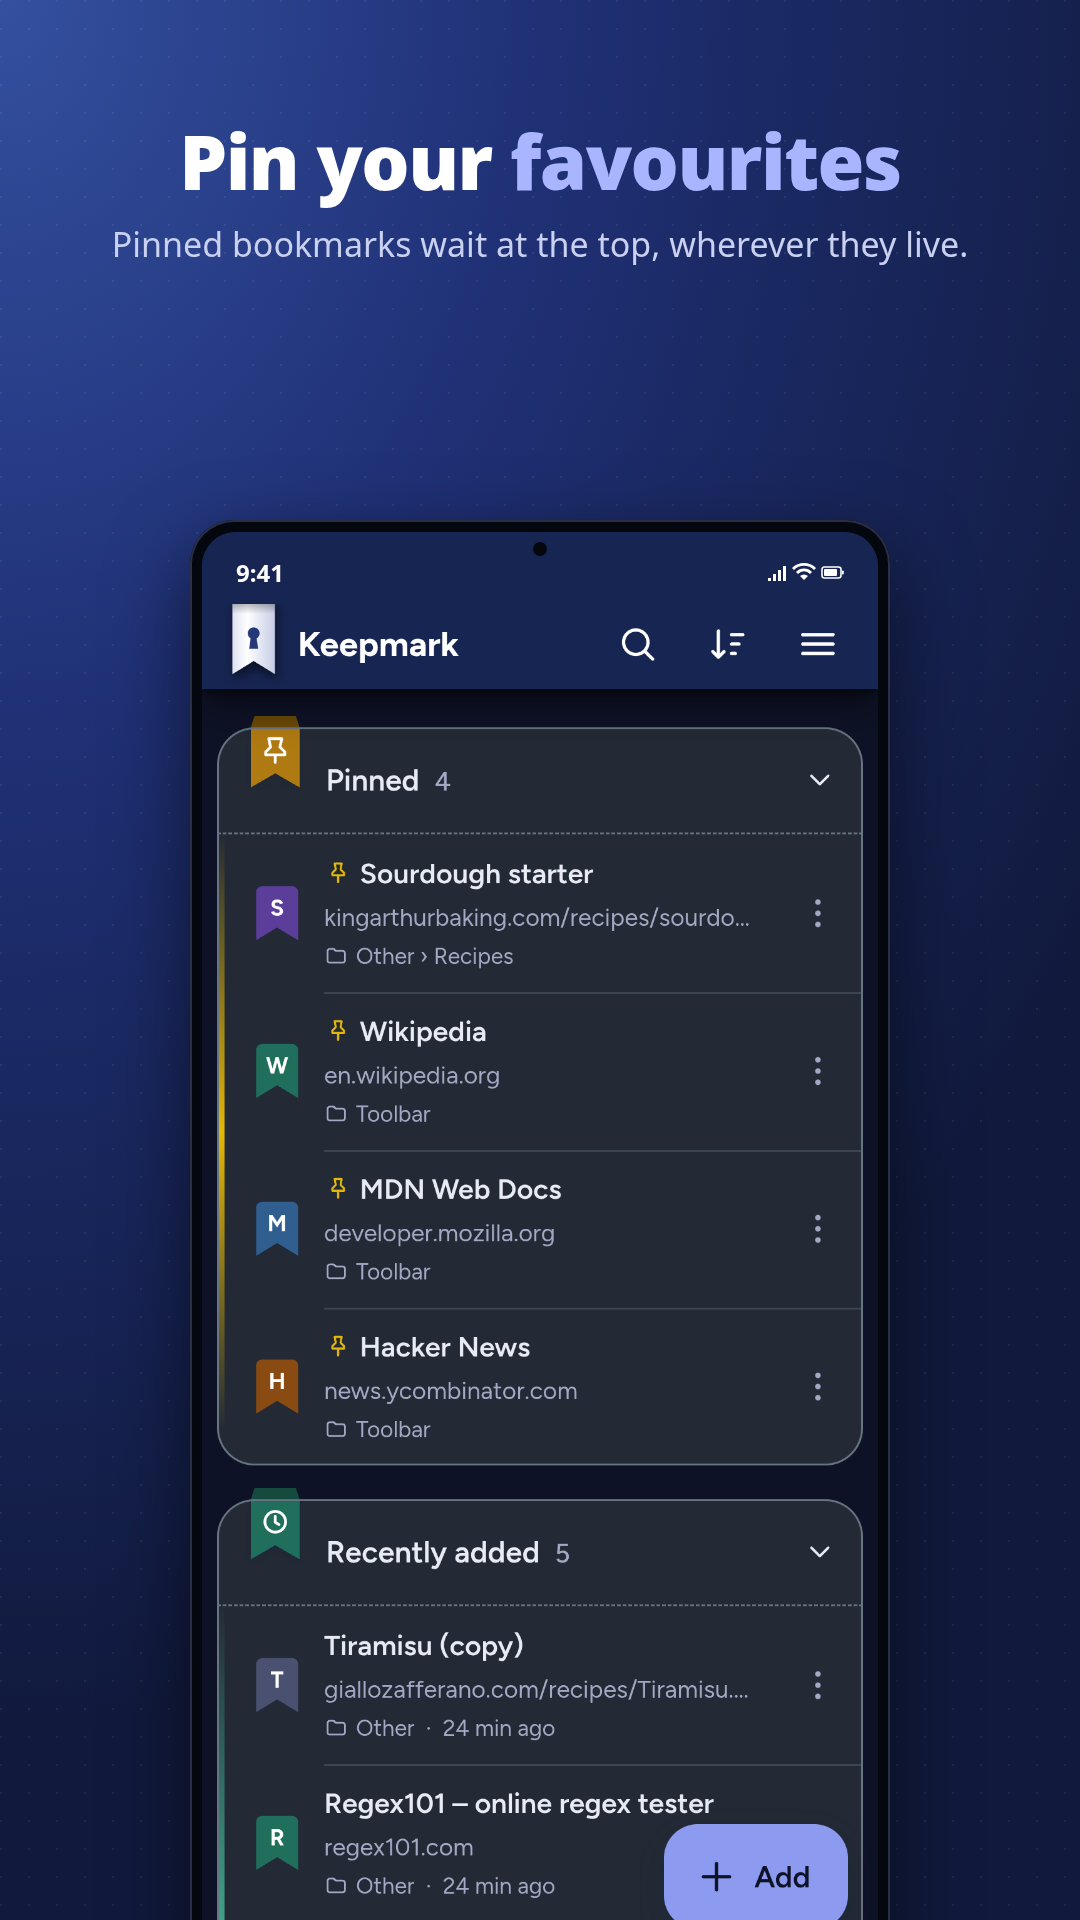
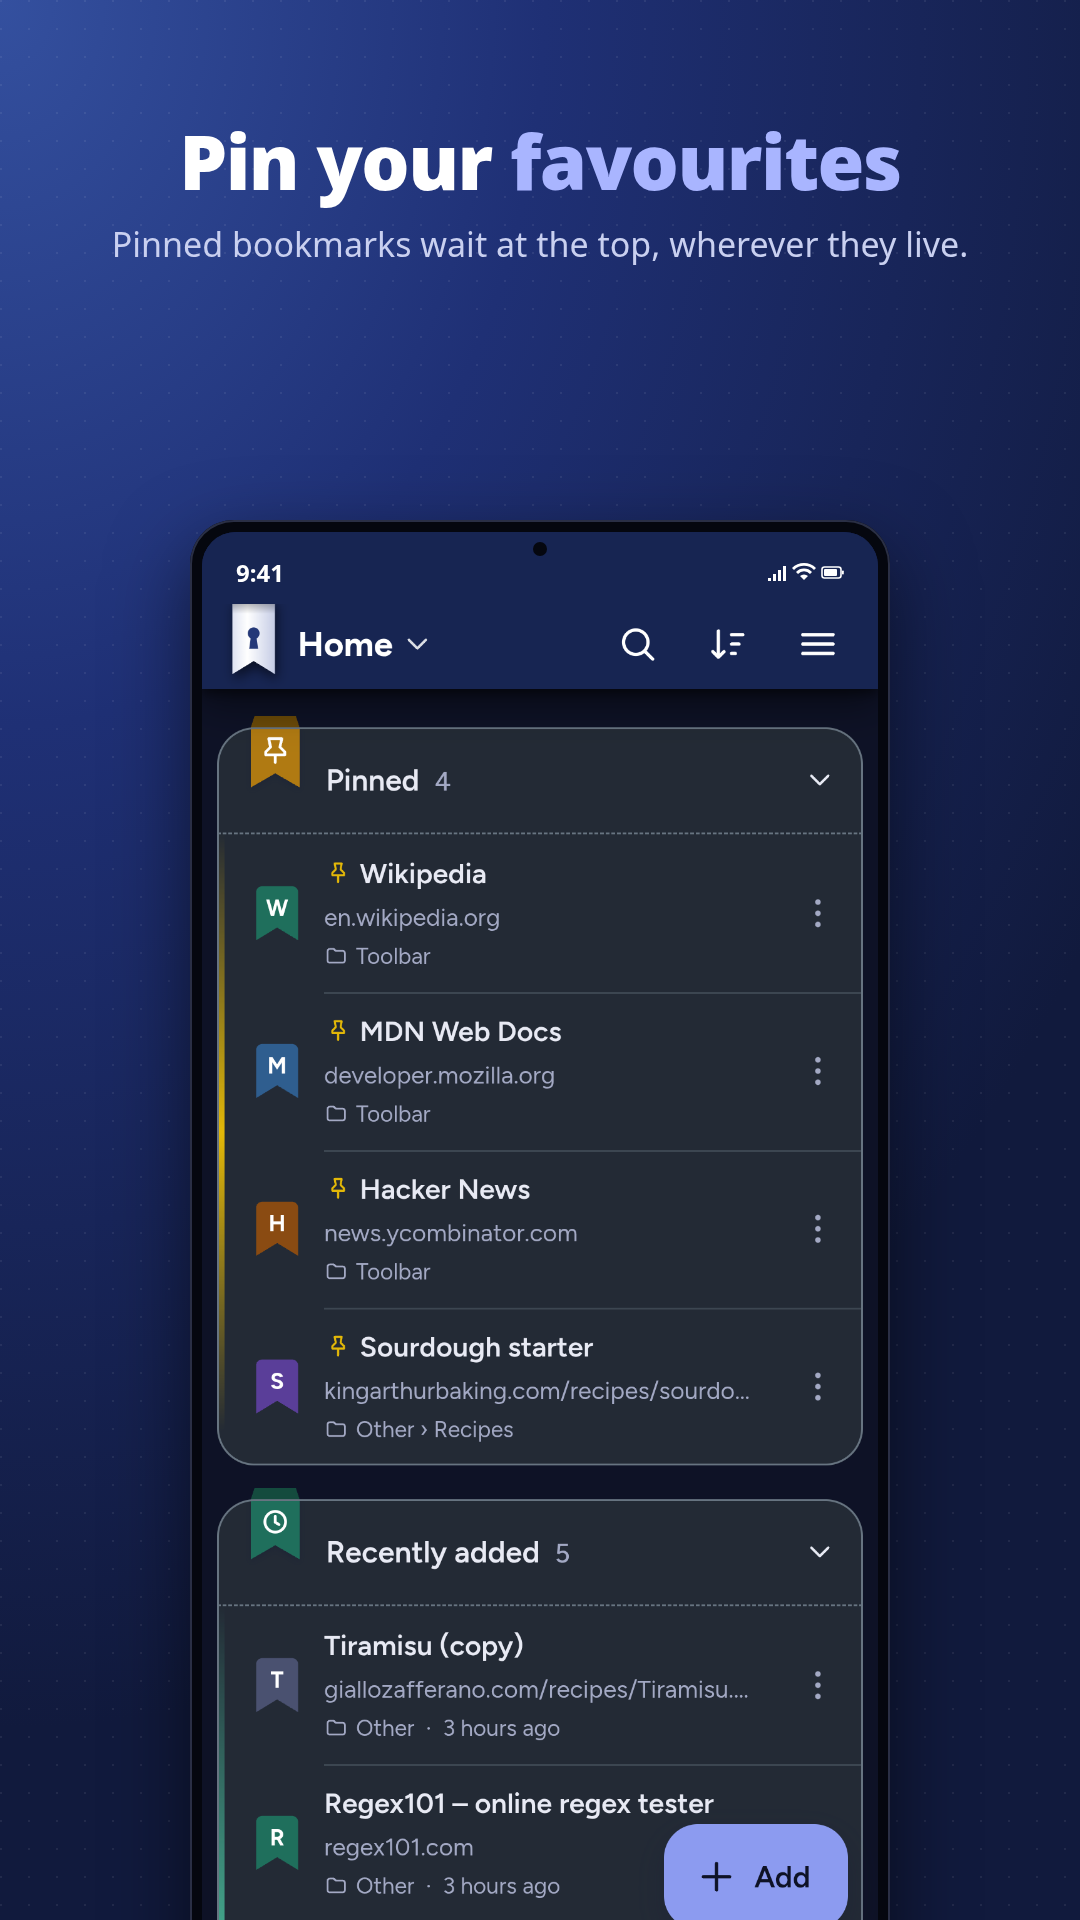
docs: screenshots with the quick sync switch

diff --git a/README.md b/README.md
@@ -135,7 +135,7 @@ backups. A brief touch response and visible checkboxes confirm selection.
 
 <p align="center">
   <img src="docs/img/screens/05-backup.png" width="24%" alt="Encrypted backups" />
-  <img src="docs/img/screens/06-actions.png" width="24%" alt="Bookmark actions" />
+  <img src="docs/img/screens/06-switch.png" width="24%" alt="Switch syncs from the top bar" />
   <img src="docs/img/screens/07-pinned.png" width="24%" alt="Pinned bookmarks" />
   <img src="docs/img/screens/08-qr.png" width="24%" alt="Scan the connection QR from the browser" />
 </p>
